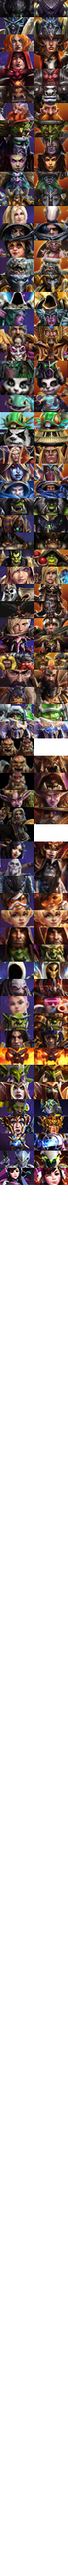
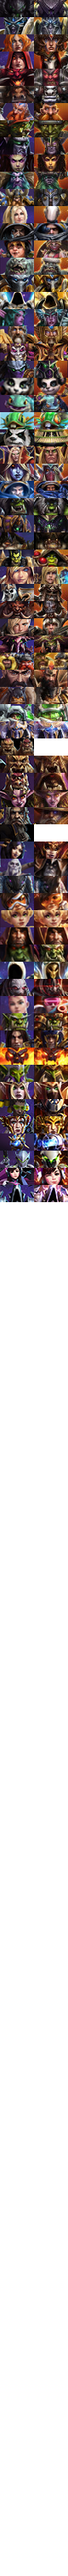
Update User Flair
Fix some residual code from flair breakout
Add Malthael Flair
Update Ballistix and some Hero flairs

diff --git a/user_flair/hero_flair.scss b/user_flair/hero_flair.scss
@@ -545,3 +545,11 @@
 .flair-h-master-dva::before {
   background-position: 40px -1360px
 }
+
+.flair-h-malthael::before {
+  background-position: 0 -1380px
+}
+
+.flair-h-master-malthael::before {
+  background-position: 40px -1380px
+}

diff --git a/user_flair/user_flair.scss b/user_flair/user_flair.scss
@@ -40,7 +40,6 @@
 
 .flair::before {
   content: " ";
-  background: url(%%flair%%);
   margin: 0;
   vertical-align: top
 }
